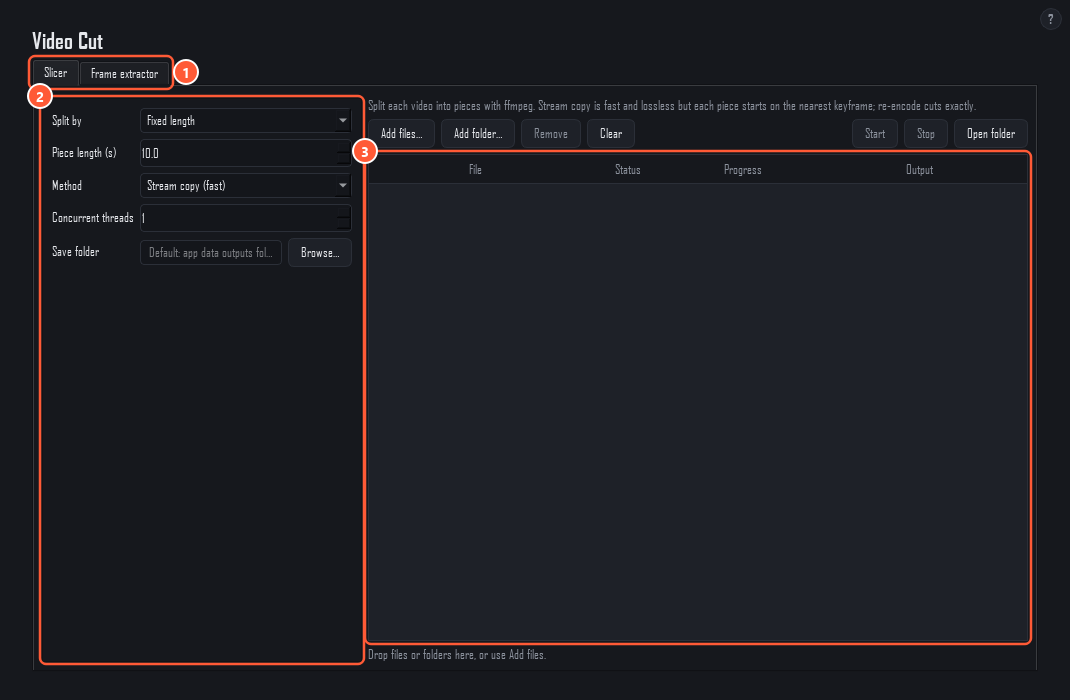
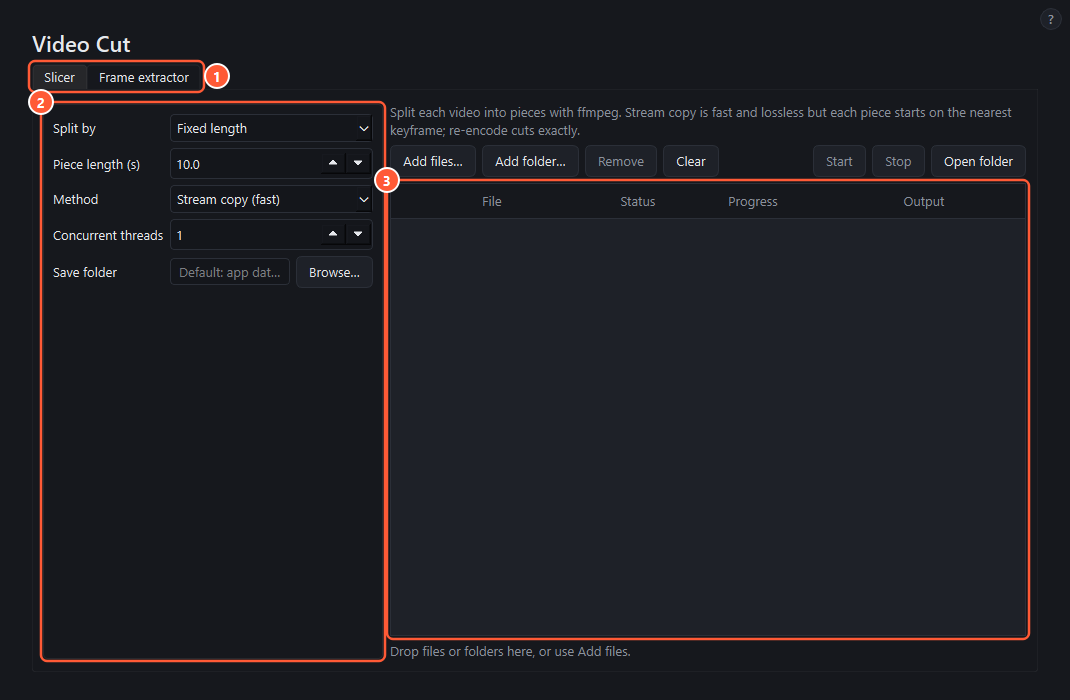
Help screenshots: render with native Windows text instead of blurry offscreen fonts

Changed region(s): [[0.0, 0.03, 0.9869, 0.96]]

diff --git a/tools/make_help_screenshots.py b/tools/make_help_screenshots.py
@@ -4,7 +4,7 @@
     python tools/make_help_screenshots.py flow-image # just these
 
 For every ``help/en/img/specs/<name>.json`` (format: ``src/help/shots.py``) this
-builds the real main window offscreen with demo data, opens the page, grabs it
+builds the real main window hidden with demo data, opens the page, grabs it
 with ``QWidget.grab()``, draws the numbered callouts and writes
 ``help/en/img/<name>.png``.
 
@@ -26,9 +26,10 @@ from pathlib import Path
 
 ROOT = Path(__file__).resolve().parents[1]
 sys.path.insert(0, str(ROOT))
-os.environ.setdefault("QT_QPA_PLATFORM", "offscreen")
-if os.name == "nt":  # the offscreen platform has no fonts of its own
-    os.environ.setdefault("QT_QPA_FONTDIR", os.path.join(os.environ.get("WINDIR", r"C:\Windows"), "Fonts"))
+if os.name != "nt":
+    # On Windows the native platform renders text with ClearType/DirectWrite; the offscreen
+    # platform's unhinted FreeType text came out blurry. Windows stay hidden (WA_DontShowOnScreen).
+    os.environ.setdefault("QT_QPA_PLATFORM", "offscreen")
 
 LANG_DIR = ROOT / "help" / "en"
 ACCENT = "#ff5a36"
@@ -346,13 +347,14 @@ def make_window(features: str, size):
 
 
 def shoot(name: str, spec: dict, out_dir: Path) -> Path:
-    from PySide6.QtCore import QRect
+    from PySide6.QtCore import QRect, Qt
     from PySide6.QtWidgets import QApplication
 
     app = QApplication.instance()
     window = make_window(spec.get("features", "flow"), spec.get("size", [1280, 800]))
     try:
         window.switch_page(spec["page"])
+        window.setAttribute(Qt.WidgetAttribute.WA_DontShowOnScreen, True)
         window.show()
         page = window.page(spec["page"])
         for _ in range(3):
